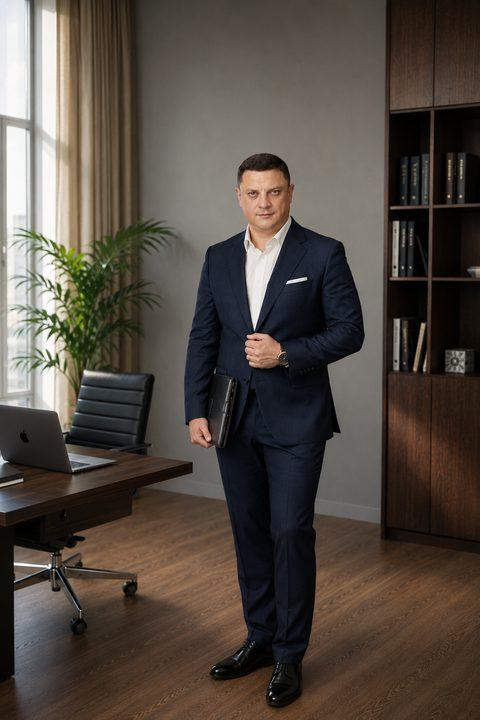
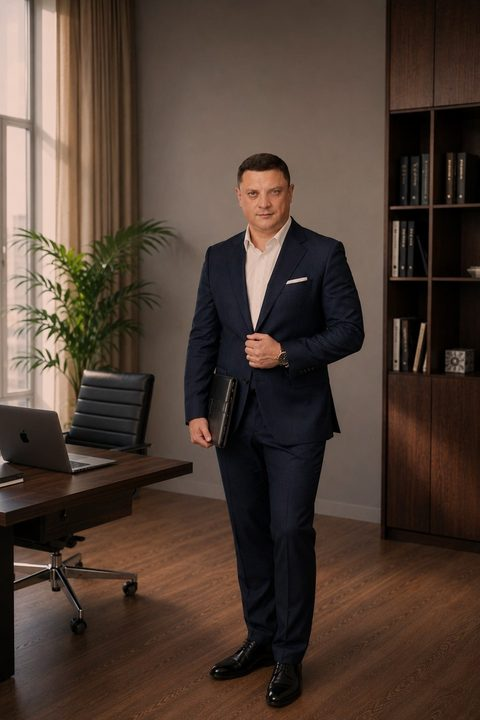
Add files via upload

diff --git a/assets/style.css b/assets/style.css
@@ -253,8 +253,8 @@ nav.links > a:hover,.has-sub:hover > button,nav.links > a.active{color:var(--gol
 .about-photo{position:relative;}
 .about-photo .frame{border-radius:10px;overflow:hidden;border:1px solid var(--cream-2);box-shadow:var(--shadow-sm);aspect-ratio:4/5;}
 .about-photo .frame img{width:100%;height:100%;object-fit:cover;object-position:top center;}
-.about-photo::before{content:"";position:absolute;inset:-14px -14px auto auto;width:64%;height:64%;border-top:2px solid var(--gold);border-right:2px solid var(--gold);opacity:.55;border-radius:0 10px 0 0;z-index:-1;}
-.about-photo-inset{position:absolute;left:-30px;bottom:-30px;width:44%;aspect-ratio:4/5;border-radius:8px;overflow:hidden;border:6px solid var(--paper);box-shadow:var(--shadow);z-index:2;}
+.about-photo::before{content:"";position:absolute;inset:-14px auto auto -14px;width:64%;height:64%;border-top:2px solid var(--gold);border-left:2px solid var(--gold);opacity:.55;border-radius:10px 0 0 0;z-index:-1;}
+.about-photo-inset{position:absolute;right:-30px;bottom:-30px;width:44%;aspect-ratio:4/5;border-radius:8px;overflow:hidden;border:6px solid var(--paper);box-shadow:var(--shadow);z-index:2;}
 .about-photo-inset img{width:100%;height:100%;object-fit:cover;object-position:top center;}
 .about-body h2{font-size:clamp(1.9rem,3.4vw,2.7rem);margin-bottom:20px;}
 .about-body p{color:var(--ink-soft);}
@@ -503,7 +503,7 @@ footer.site{background:var(--navy-950);color:var(--on-dark-soft);padding:66px 0 
   .feature-grid{grid-template-columns:1fr;}
   .foot-grid{grid-template-columns:1fr 1fr;gap:32px;}
   .about-photo{max-width:420px;margin:0 auto;}
-  .about-photo-inset{width:48%;left:-18px;bottom:-18px;}
+  .about-photo-inset{width:48%;right:-18px;bottom:-18px;}
 }
 @media (max-width:640px){
   body{font-size:16px;}
